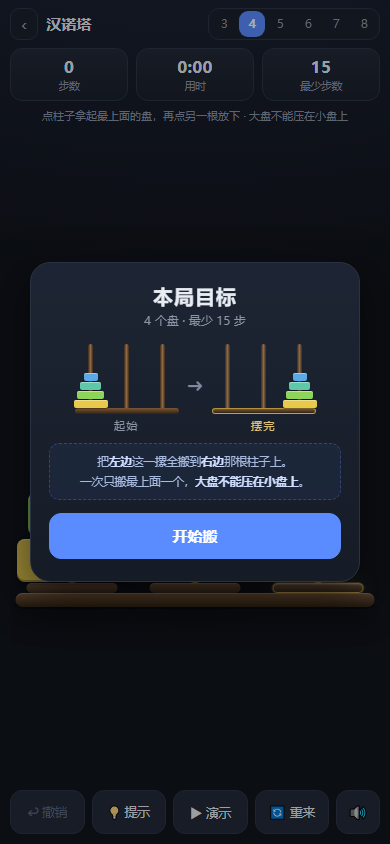
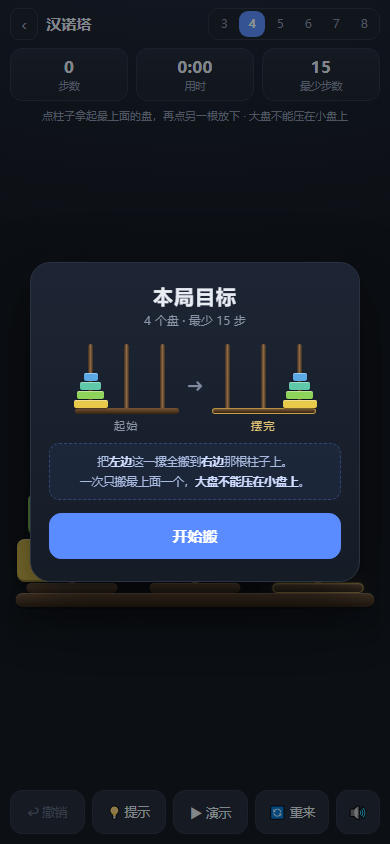
fix(汉诺塔): 卡片改回与其他游戏一致的写法，删掉「把卡片压成 0 高」的元凶
用户问：能不能让卡片正常出来？其他游戏咋没事呢？

一对比就清楚了：freecell / klondike 的结算卡片也用 opacity:0 起步的入场动画，
在手机上从没出过问题；而汉诺塔的卡片是全站唯一挂了
  max-height: calc(100vh - 36px); overflow-y: auto
的（那是我为了「横屏能滚到按钮」自己加的改良）。某些 WebView 里 vh 算不准，
卡片高度被算成 0 -> 只剩一层遮罩 = 「一屏黑、点不动」，三次都是它。

- 卡片：删掉 max-height / overflow-y / position:relative / pointer-events，
  改回和 freecell 一模一样的写法；滚动交给遮罩容器（overflow-y:auto）
- 入场动画加回来（.24s，和 freecell 同款），但只动 transform 不动 opacity：
  动画万一停在第 1 帧，卡片只是略微靠下、略小，人还看得见，不会消失
- 新增 fixCard()：卡片出现 80ms 后量高度，小于 80px 就把动画、高度约束全拆掉，
  让卡片按内容自然撑开（结算 / 目标图都走这一套）
- 遮罩 62%（目标图 46%），z-index 400；#toast 提到 500 以免被面板盖住
- 测试 150 -> 152 项：反向断言「卡片不许有 max-height:calc」「不许自己做滚动容器」，
  断言入场动画只动 transform、fixCard 存在且两处都调用

diff --git a/android/project/assets/hanoi/index.html b/android/project/assets/hanoi/index.html
@@ -153,29 +153,28 @@
   .bar button.dim{color:#5d6779}
 
   /* ===== 弹层（结算 / 开局目标） =====
-     ★ 三条铁律，条条都是被「一屏黑、点不动」逼出来的：
-       ① 遮罩只到 34%，是「压暗」不是「盖住」—— 就算卡片这一层没画出来，
-          玩家仍然看得见自己摆的塔，不会以为游戏死了；
-       ② 卡片不挂任何入场动画：动画会把卡片提升成独立合成层，某些 WebView /
-          预览面板里这一层会画不出来，只剩底下一层遮罩 ← 黑屏的真凶；
-       ③ 遮罩 pointer-events:none，只有卡片吃点击 —— 卡片万一失手，
-          玩家照样能点棋盘（点一下就能把面板叫回来），永远不会「什么都点不动」。 */
-  .over{position:fixed;inset:0;display:none;z-index:20;
+     ★ 和 freecell / klondike 用的是同一套写法 —— 那两个游戏的结算卡片在手机上
+       从来没出过问题，照抄就是最稳的做法。别在这里加「改良」，加一样坏一样：
+       我自己加过的三样（卡片 max-height:calc(100vh-36px) + 自己滚动、
+       遮罩 pointer-events:none、卡片不挂动画）全部撤掉了 —— 第一样会在某些
+       WebView 里把卡片高度算成 0（于是只剩一层遮罩 = 「一屏黑、点不动」）。
+     入场动画只动 transform 不动 opacity：万一动画停在第一帧，卡片也只是
+     稍微靠下、稍微小一点，人还看得见，绝不会变成透明的空遮罩。 */
+  .over{position:fixed;inset:0;display:none;z-index:400;
         align-items:center;justify-content:center;padding:18px;
-        background:rgba(6,9,14,.34);pointer-events:none}
+        background:rgba(8,12,18,.62);overflow-y:auto;-webkit-overflow-scrolling:touch}
   .over.on{display:flex}
-  /* 结算不压暗：玩家刚把塔摆完，这一眼得看得清清楚楚（只留一层几乎看不见的雾） */
-  #over{background:rgba(6,9,14,.12)}
-  /* 结算不压暗：玩家刚把塔摆完，这一眼得看得清清楚楚（只留一层几乎看不见的雾） */
-  #over{background:rgba(6,9,14,.12)}
+  /* 开局目标图淡一点：这时候棋盘还没动过，不需要压那么暗 */
+  #intro{background:rgba(8,12,18,.46)}
   .panel{
-    position:relative;z-index:1;pointer-events:auto;
-    margin:auto;width:100%;max-width:330px;text-align:center;
-    max-height:calc(100vh - 36px);overflow-y:auto;      /* 面板自己滚，不靠遮罩滚 */
+    margin:auto;flex:0 0 auto;          /* flex 里 margin:auto = 居中；装不下时变 0，可以滚 */
+    width:100%;max-width:330px;text-align:center;
     background:linear-gradient(180deg,#1d2534,#161c26);
     border:1px solid var(--line);border-radius:20px;padding:20px 18px 14px;
-    box-shadow:0 16px 44px rgba(0,0,0,.55);
+    box-shadow:0 22px 60px rgba(0,0,0,.6);
+    animation:panelIn .24s cubic-bezier(.2,1.3,.5,1);
   }
+  @keyframes panelIn{from{transform:translateY(12px) scale(.97)}to{transform:none}}
   .panel h2{margin:0 0 3px;font-size:20px;letter-spacing:1px}
   .panel .sub2{font-size:12px;color:var(--dim);margin-bottom:10px}
   .stars{font-size:30px;letter-spacing:4px;color:var(--hot);line-height:1.1;margin-bottom:12px;
@@ -225,7 +224,7 @@
          transform:translate(-50%,10px);
          background:#20262fee;border:1px solid var(--line);padding:10px 16px;border-radius:11px;
          font-size:13px;opacity:0;transition:opacity .2s ease,transform .2s ease;pointer-events:none;
-         z-index:30;max-width:86vw;text-align:center;line-height:1.5}
+         z-index:500;max-width:86vw;text-align:center;line-height:1.5}   /* 要压过 .over(400)，否则面板一弹提示就被盖住 */
   #toast.on{opacity:1;transform:translate(-50%,0)}
 </style>
 </head>
@@ -616,6 +615,7 @@
     box.appendChild(goalBoard(N, 'right'));
     $('introSub').textContent = N + ' 个盘 · 最少 ' + optOf(N) + ' 步';
     $('intro').classList.add('on');
+    fixCard($('intro'));
   }
 
   function hideIntro(){ $('intro').classList.remove('on'); }
@@ -916,13 +916,35 @@
     return { stars: st, recM: recM, recT: recT, b: b };
   }
 
+  /* 卡片出现后量一次高度。正常是 300~400px；要是量出来不到 80px，
+     说明这个环境把 flex 卡片的高度算崩了（踩过：卡片上挂 max-height
+     时高度被算成 0，于是只剩一层遮罩 = 「一屏黑、点不动」）。
+     这时候把动画、高度约束全部拆掉，让卡片按内容自然撑开 —— 一定要让
+     玩家看见卡片，哪怕它掉在页面顶端。 */
+  function fixCard(ov){
+    setTimeout(function(){
+      var pn = ov.querySelector('.panel');
+      if(!pn) return;
+      var h = 0;
+      try{ h = pn.getBoundingClientRect().height; }catch(e){}
+      if(h < 80){
+        pn.style.animation = 'none';
+        pn.style.height = 'auto';
+        pn.style.maxHeight = 'none';
+        pn.style.overflow = 'visible';
+      }
+    }, 80);
+  }
+
   /* 弹出结算面板。
      ★ 第一道守卫：没真搬完就绝不弹。任何写错的路径（旧定时器 / 动画回调 /
        面板自己没关干净）都不可能把遮罩盖在一局没结束的棋上。 */
   function showOver(){
     if(!done) return;
     overSeen = true;
-    $('over').classList.add('on');
+    var ov = $('over');
+    ov.classList.add('on');
+    fixCard(ov);
   }
   function hideOver(){
     $('over').classList.remove('on');
@@ -1264,8 +1286,8 @@
 
   $('introGo').addEventListener('click', hideIntro, false);
   /* 点哪儿都能开始：小孩乱点一下就该能玩，不必非点到按钮。
-     遮罩是 pointer-events:none（见 CSS 注释），点不点得到它都无所谓，
-     所以监听挂在 document 上，点页面任何位置都算「我知道了」。 */
+     监听挂在 document 上 —— 点按钮、点卡片、点卡片外面那圈遮罩，
+     事件都会冒到 document，所以点页面任何位置都算「我知道了」。 */
   document.addEventListener('click', function(){
     if(!$('intro').classList.contains('on')) return;
     /* 刚弹出来这 400ms 内不认这一下：它是「再来一局」/「重来」那一下冒上来的，

diff --git a/web/hanoi/index.html b/web/hanoi/index.html
@@ -153,29 +153,28 @@
   .bar button.dim{color:#5d6779}
 
   /* ===== 弹层（结算 / 开局目标） =====
-     ★ 三条铁律，条条都是被「一屏黑、点不动」逼出来的：
-       ① 遮罩只到 34%，是「压暗」不是「盖住」—— 就算卡片这一层没画出来，
-          玩家仍然看得见自己摆的塔，不会以为游戏死了；
-       ② 卡片不挂任何入场动画：动画会把卡片提升成独立合成层，某些 WebView /
-          预览面板里这一层会画不出来，只剩底下一层遮罩 ← 黑屏的真凶；
-       ③ 遮罩 pointer-events:none，只有卡片吃点击 —— 卡片万一失手，
-          玩家照样能点棋盘（点一下就能把面板叫回来），永远不会「什么都点不动」。 */
-  .over{position:fixed;inset:0;display:none;z-index:20;
+     ★ 和 freecell / klondike 用的是同一套写法 —— 那两个游戏的结算卡片在手机上
+       从来没出过问题，照抄就是最稳的做法。别在这里加「改良」，加一样坏一样：
+       我自己加过的三样（卡片 max-height:calc(100vh-36px) + 自己滚动、
+       遮罩 pointer-events:none、卡片不挂动画）全部撤掉了 —— 第一样会在某些
+       WebView 里把卡片高度算成 0（于是只剩一层遮罩 = 「一屏黑、点不动」）。
+     入场动画只动 transform 不动 opacity：万一动画停在第一帧，卡片也只是
+     稍微靠下、稍微小一点，人还看得见，绝不会变成透明的空遮罩。 */
+  .over{position:fixed;inset:0;display:none;z-index:400;
         align-items:center;justify-content:center;padding:18px;
-        background:rgba(6,9,14,.34);pointer-events:none}
+        background:rgba(8,12,18,.62);overflow-y:auto;-webkit-overflow-scrolling:touch}
   .over.on{display:flex}
-  /* 结算不压暗：玩家刚把塔摆完，这一眼得看得清清楚楚（只留一层几乎看不见的雾） */
-  #over{background:rgba(6,9,14,.12)}
-  /* 结算不压暗：玩家刚把塔摆完，这一眼得看得清清楚楚（只留一层几乎看不见的雾） */
-  #over{background:rgba(6,9,14,.12)}
+  /* 开局目标图淡一点：这时候棋盘还没动过，不需要压那么暗 */
+  #intro{background:rgba(8,12,18,.46)}
   .panel{
-    position:relative;z-index:1;pointer-events:auto;
-    margin:auto;width:100%;max-width:330px;text-align:center;
-    max-height:calc(100vh - 36px);overflow-y:auto;      /* 面板自己滚，不靠遮罩滚 */
+    margin:auto;flex:0 0 auto;          /* flex 里 margin:auto = 居中；装不下时变 0，可以滚 */
+    width:100%;max-width:330px;text-align:center;
     background:linear-gradient(180deg,#1d2534,#161c26);
     border:1px solid var(--line);border-radius:20px;padding:20px 18px 14px;
-    box-shadow:0 16px 44px rgba(0,0,0,.55);
+    box-shadow:0 22px 60px rgba(0,0,0,.6);
+    animation:panelIn .24s cubic-bezier(.2,1.3,.5,1);
   }
+  @keyframes panelIn{from{transform:translateY(12px) scale(.97)}to{transform:none}}
   .panel h2{margin:0 0 3px;font-size:20px;letter-spacing:1px}
   .panel .sub2{font-size:12px;color:var(--dim);margin-bottom:10px}
   .stars{font-size:30px;letter-spacing:4px;color:var(--hot);line-height:1.1;margin-bottom:12px;
@@ -225,7 +224,7 @@
          transform:translate(-50%,10px);
          background:#20262fee;border:1px solid var(--line);padding:10px 16px;border-radius:11px;
          font-size:13px;opacity:0;transition:opacity .2s ease,transform .2s ease;pointer-events:none;
-         z-index:30;max-width:86vw;text-align:center;line-height:1.5}
+         z-index:500;max-width:86vw;text-align:center;line-height:1.5}   /* 要压过 .over(400)，否则面板一弹提示就被盖住 */
   #toast.on{opacity:1;transform:translate(-50%,0)}
 </style>
 </head>
@@ -616,6 +615,7 @@
     box.appendChild(goalBoard(N, 'right'));
     $('introSub').textContent = N + ' 个盘 · 最少 ' + optOf(N) + ' 步';
     $('intro').classList.add('on');
+    fixCard($('intro'));
   }
 
   function hideIntro(){ $('intro').classList.remove('on'); }
@@ -916,13 +916,35 @@
     return { stars: st, recM: recM, recT: recT, b: b };
   }
 
+  /* 卡片出现后量一次高度。正常是 300~400px；要是量出来不到 80px，
+     说明这个环境把 flex 卡片的高度算崩了（踩过：卡片上挂 max-height
+     时高度被算成 0，于是只剩一层遮罩 = 「一屏黑、点不动」）。
+     这时候把动画、高度约束全部拆掉，让卡片按内容自然撑开 —— 一定要让
+     玩家看见卡片，哪怕它掉在页面顶端。 */
+  function fixCard(ov){
+    setTimeout(function(){
+      var pn = ov.querySelector('.panel');
+      if(!pn) return;
+      var h = 0;
+      try{ h = pn.getBoundingClientRect().height; }catch(e){}
+      if(h < 80){
+        pn.style.animation = 'none';
+        pn.style.height = 'auto';
+        pn.style.maxHeight = 'none';
+        pn.style.overflow = 'visible';
+      }
+    }, 80);
+  }
+
   /* 弹出结算面板。
      ★ 第一道守卫：没真搬完就绝不弹。任何写错的路径（旧定时器 / 动画回调 /
        面板自己没关干净）都不可能把遮罩盖在一局没结束的棋上。 */
   function showOver(){
     if(!done) return;
     overSeen = true;
-    $('over').classList.add('on');
+    var ov = $('over');
+    ov.classList.add('on');
+    fixCard(ov);
   }
   function hideOver(){
     $('over').classList.remove('on');
@@ -1264,8 +1286,8 @@
 
   $('introGo').addEventListener('click', hideIntro, false);
   /* 点哪儿都能开始：小孩乱点一下就该能玩，不必非点到按钮。
-     遮罩是 pointer-events:none（见 CSS 注释），点不点得到它都无所谓，
-     所以监听挂在 document 上，点页面任何位置都算「我知道了」。 */
+     监听挂在 document 上 —— 点按钮、点卡片、点卡片外面那圈遮罩，
+     事件都会冒到 document，所以点页面任何位置都算「我知道了」。 */
   document.addEventListener('click', function(){
     if(!$('intro').classList.contains('on')) return;
     /* 刚弹出来这 400ms 内不认这一下：它是「再来一局」/「重来」那一下冒上来的，

diff --git a/tools/test_hanoi.js b/tools/test_hanoi.js
@@ -461,18 +461,24 @@ section('11) 盘数 3~8');
 /* ================= 12) 结算面板不会变成「黑屏」 ================= */
 section('12) 结算面板不会变成「一屏黑」');
 {
-  /* 真实故障（用户报了两次）：遮罩盖满、卡片没画出来 →
-     一屏黑、什么都点不动。四条硬约束，缺一条就会复发。 */
+  /* 真实故障（用户报了三次）：遮罩在、卡片看不见 → 一屏黑、点不动。
+     ★ 真正的根因是唯一一处「别的游戏没有、只有汉诺塔有」的写法：给卡片挂了
+       max-height:calc(100vh - 36px) + overflow-y:auto。某些 WebView 里 vh
+       算不准，卡片高度被压到 0，于是只剩一层遮罩。已全部撤掉，改回和
+       freecell / klondike 一模一样的写法 —— 那两个游戏的卡片经受过真机考验。 */
   const overCss = (html.match(/\.over\{position:fixed[^}]*\}/) || [''])[0];   // 别匹配到 .stat b.over
   const panelCss = (html.match(/\.panel\{\s*\n?[^}]*\}/) || [''])[0];
   const alpha = (overCss.match(/rgba\([^)]*?,\s*([\d.]+)\s*\)/) || [])[1];
-  ok(alpha && parseFloat(alpha) <= 0.5, '遮罩只压暗到 34%（实测 ' + alpha + '），不是 82% 的黑幕');
-  ok(/pointer-events:none/.test(overCss), '★ 遮罩不吃点击（卡片万一没画出来，玩家还能点棋盘）');
-  ok(/pointer-events:auto/.test(panelCss), '★ 只有卡片吃点击');
-  ok(!/animation:/.test(panelCss), '★ 卡片不挂入场动画（动画会把它提升成合成层，某些 WebView 里画不出来）');
-  ok(/z-index:1/.test(panelCss), '卡片明确排在遮罩之上');
-  ok(/\.panel\{[^}]*margin:auto/.test(html), '装得下就居中，装不下就滚动');
-  ok(/max-height:calc\(100vh/.test(panelCss), '面板自己有高度上限，小窗里内部滚动');
+  ok(alpha && parseFloat(alpha) <= 0.7, '遮罩只压暗到 62%（实测 ' + alpha + '）');
+  ok(!/max-height:calc/.test(panelCss), '★ 卡片不许挂 max-height:calc(100vh…) —— 这条会把卡片高度算成 0（黑屏根因）');
+  ok(!/overflow-y/.test(panelCss), '★ 卡片不自己做滚动容器（滚交给遮罩）');
+  ok(/overflow-y:auto/.test(overCss), '遮罩可滚：小窗里面板比屏幕高也能滚到按钮');
+  ok(/animation:panelIn/.test(panelCss), '卡片有入场动画（和其他游戏一致）');
+  ok(/@keyframes panelIn\{from\{transform/.test(html) && !/@keyframes panelIn\{[^}]*opacity/.test(html),
+     '★ 入场动画只动 transform、不动 opacity（动画失手时卡片仍在，不会变成透明空遮罩）');
+  ok(/style\.animation = 'none'/.test(html) && /style\.height = 'auto'/.test(html), '★ fixCard() 兜底：卡片被量成 0 高时拆掉动画和高度约束');
+  ok(/fixCard\(ov\)/.test(html) && /fixCard\(\$\('intro'\)\)/.test(html), '结算和目标图都走同一套兜底');
+  ok(/\.panel\{[^}]*margin:auto/.test(html), 'flex 里 margin:auto：装得下居中，装不下可滚到顶');
   ok(/if\(!done\) return;/.test(html), '★ showOver() 第一道守卫：没真搬完绝不弹面板');
   ok(/if\(g === gameId\) showOver\(\)/.test(html), '面板定时器认局号（上一局的定时器不许盖到新局上）');
   ok(/if\(g !== gameId\) return;/.test(html), '落盘动画链认局号（旧局的回调不许动新局）');
